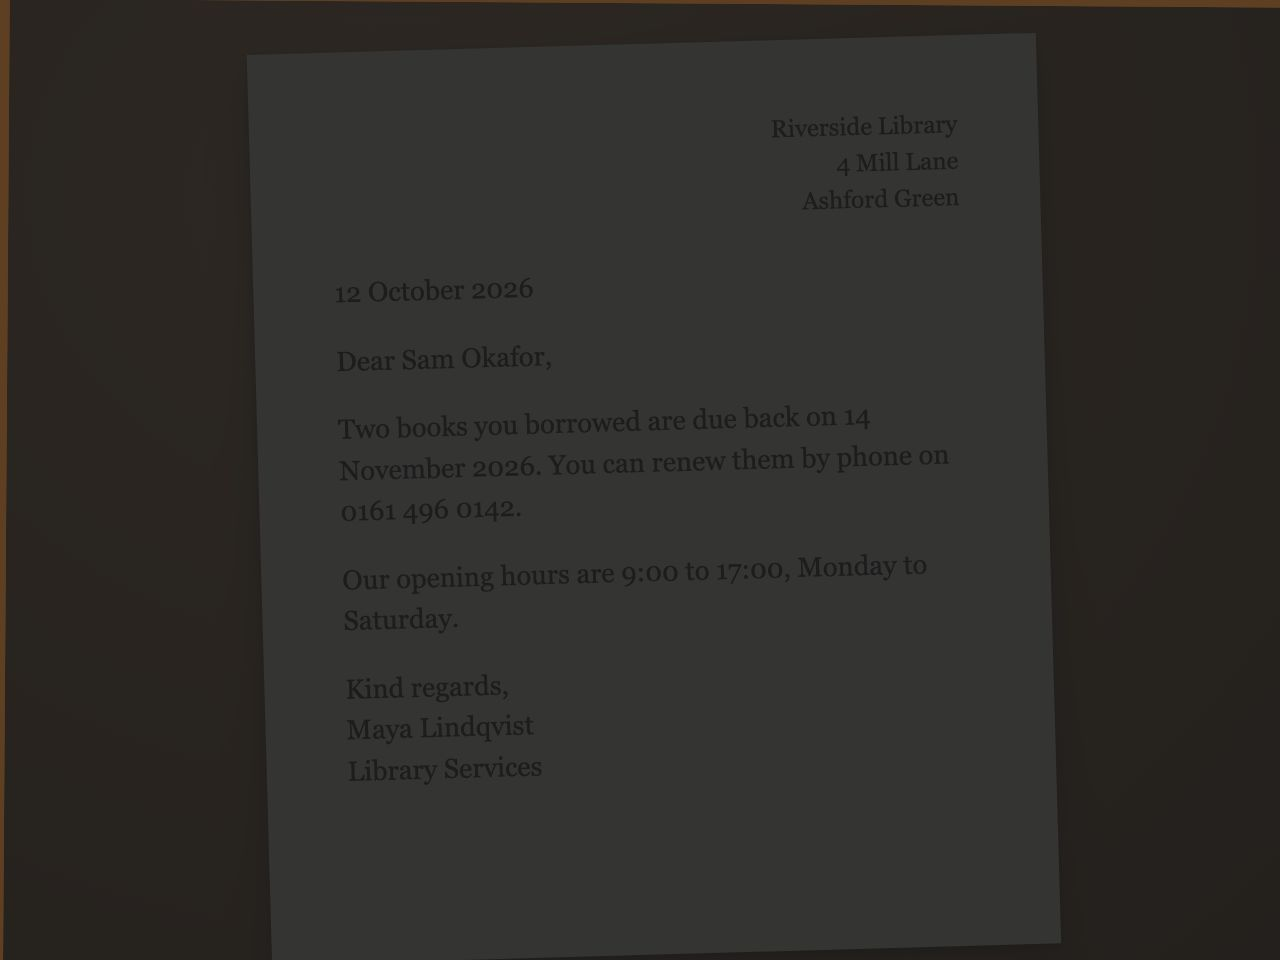
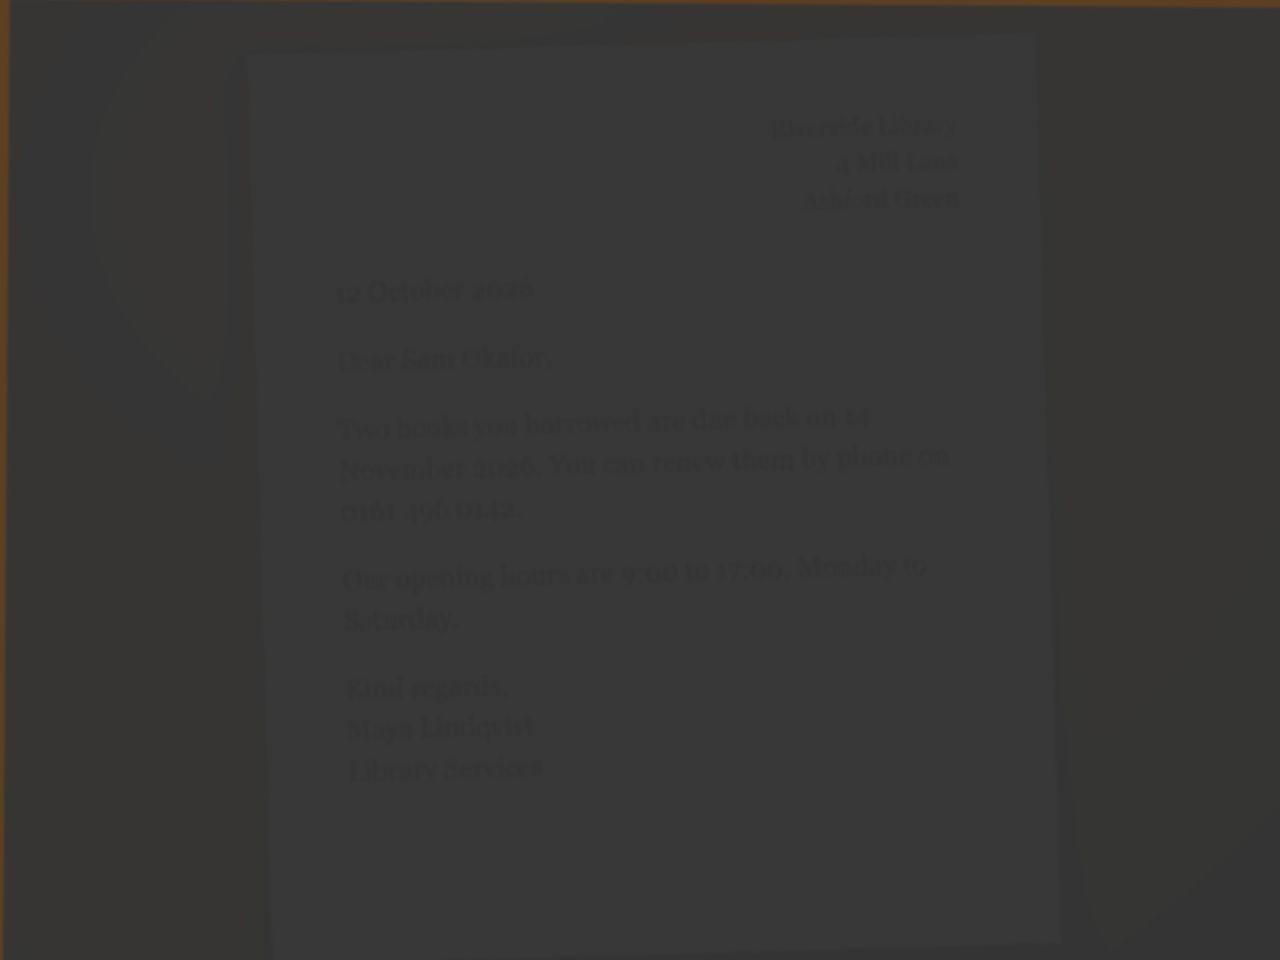
Tune on live dev results: argument grounding, clearer tools, fuller Describe
First runs against Nebius Token Factory (dev split only):
- Super-VL accepts strict json_schema; reasoning_effort none gives 0 hidden
  reasoning tokens
- Lightning invented a location ("on the counter") for "remember this as my
  house keys": tool descriptions now give examples, and code rejects any
  object/location/label not grounded in the user's words (falls back to rules)
- Describe listed only 2 items; the prompt now asks for each distinct object
- Guidance-only reads no longer run number checks or call Ultra
- Evaluation: clock positions are not counted as numbers; the judge is told
  that "(number unclear)" is a deliberate mask; misses and judged sentences
  are printed
- The dark sample is now genuinely unreadable; labels for the dark and
  cut-off letter carry the letter's text

diff --git a/eval/run.ts b/eval/run.ts
@@ -111,6 +111,7 @@ async function evalLane(name: string, lane: { lane: "fast" | "fastlane"; model: 
     }
     r.latencies.push(Date.now() - started);
     if (routeCorrect(d, u)) r.correct++;
+    else if (lane) console.error(`  ${name} miss: "${u.utterance}" -> ${d.skill} ${JSON.stringify(d.args)} (want ${u.skill} ${JSON.stringify(u.args)})`);
   }
   return r;
 }
@@ -155,7 +156,7 @@ interface PhotoResult {
   forbidden: string[];
   hazardSaid: boolean | null;
   numbers: { agreed: number; adjudicated: number; abstained: number } | null;
-  unsupported: { count: number; total: number } | null;
+  unsupported: { count: number; total: number; unsupported: string[] } | null;
 }
 
 const FIXED = new Set<string>([...Object.values(REFUSALS)]);
@@ -166,16 +167,20 @@ function forbiddenIn(speech: string[]): string[] {
 
 const Judged = z.object({ sentences: z.array(z.object({ sentence: z.string(), supported: z.boolean() })) });
 
-async function judge(label: Label, speech: string[]): Promise<{ count: number; total: number }> {
+async function judge(label: Label, speech: string[]): Promise<{ count: number; total: number; unsupported: string[] }> {
   const content = speech.filter((s) => !FIXED.has(s) && !/^(There's more|I can't|I don't see|Press |The picture|Too dark|It's cut off|The text is cut off|There's glare)/.test(s));
-  if (content.length === 0) return { count: 0, total: 0 };
+  if (content.length === 0) return { count: 0, total: 0, unsupported: [] };
   const res = await chatJson(
     ctx.llm,
     {
       lane: "judge",
       model: ctx.cfg.models.judge,
       messages: [
-        { role: "system", content: "You grade an assistant's description of a photo against the ground truth. A sentence is supported if everything it claims is consistent with the ground truth. Hedged sentences ('I think … but I'm not sure') are judged on their claim. Reply with JSON only." },
+        {
+          role: "system",
+          content:
+            "You grade an assistant's description of a photo against the ground truth. A sentence is supported if everything it claims is consistent with the ground truth. Hedged sentences ('I think … but I'm not sure') are judged on their claim. '(number unclear)' marks a number the assistant deliberately withheld; it is not a claim. Clock positions and rough distances are approximate and are not errors unless clearly wrong. Reply with JSON only.",
+        },
         { role: "user", content: JSON.stringify({ ground_truth: label.scene, key_facts: label.key_facts, sentences: content }) },
       ],
       temperature: 0,
@@ -186,7 +191,8 @@ async function judge(label: Label, speech: string[]): Promise<{ count: number; t
     "judged",
     ctx.cfg.jsonMode,
   );
-  return { count: res.data.sentences.filter((s) => !s.supported).length, total: content.length };
+  const unsupported = res.data.sentences.filter((s) => !s.supported).map((s) => s.sentence);
+  return { count: unsupported.length, total: content.length, unsupported };
 }
 
 async function dataUrl(file: string): Promise<string> {
@@ -205,6 +211,8 @@ if (live && !flag("no-vision")) {
       const spoken = res.speech.join(" ");
       const transcript = (res.read?.items ?? []).filter((i) => i.confidence >= 0.5).map((i) => i.content).join(" ");
       const truthNums = new Set(numericTokens(`${p.truth_text ?? ""} ${p.numbers.join(" ")} ${p.scene}`));
+      // Clock positions ("at 4 o'clock") are directions, not numbers read from the scene.
+      const spokenNumbers = spoken.replace(/\b(?:at\s+)?\d{1,2}\s+o'clock\b/gi, "");
       const answered = res.status === "answered";
       results.push({
         id: p.id,
@@ -217,13 +225,16 @@ if (live && !flag("no-vision")) {
         cer: p.truth_text && p.skill === "read" && answered ? cer(transcript, p.truth_text) : null,
         invented: p.truth_text && p.skill === "read" && answered ? inventedWords(transcript, p.truth_text) : null,
         facts: { hit: keyFactHits(spoken, p.key_facts), total: p.key_facts.length },
-        wrongNumbers: numericTokens(spoken).filter((t) => !truthNums.has(t)),
+        wrongNumbers: numericTokens(spokenNumbers).filter((t) => !truthNums.has(t)),
         forbidden: forbiddenIn(res.speech),
         hazardSaid: p.hazard ? /\bcareful\b/i.test(spoken) : null,
         numbers: res.numbers ?? null,
         unsupported: (p.skill === "describe" || p.skill === "what_is") && answered && !flag("no-judge") ? await judge(p, res.speech) : null,
       });
+      const last = results[results.length - 1]!;
       console.error(`  ${p.id}: ${res.status} ${res.metrics.total_ms} ms · ${res.speech.join(" | ")}`);
+      if (last.unsupported?.unsupported.length) console.error(`    judged unsupported: ${last.unsupported.unsupported.join(" | ")}`);
+      if (last.wrongNumbers.length) console.error(`    numbers not on the page: ${last.wrongNumbers.join(", ")}`);
     } catch (err) {
       console.error(`  ${p.id}: FAILED ${err instanceof Error ? err.message : String(err)}`);
       results.push({ id: p.id, skill: p.skill, expect: p.expect, status: "error", speech: [], ms: 0, cost: 0, cer: null, invented: null, facts: { hit: 0, total: p.key_facts.length }, wrongNumbers: [], forbidden: [], hazardSaid: null, numbers: null, unsupported: null });

diff --git a/server/route.ts b/server/route.ts
@@ -1,4 +1,4 @@
-import type { RouteRequest, RouteResponse, RouteSkill } from "../shared/api.js";
+import type { RouteArgs, RouteRequest, RouteResponse, RouteSkill } from "../shared/api.js";
 import { type RouteDecision, refusalFor, routeByRules, validateRoute } from "../shared/router.js";
 import { type Ctx, Meter, withTextLane } from "./context.js";
 import type { ChatRequest, Tool } from "./llm.js";
@@ -23,16 +23,16 @@ function tool(name: string, description: string, props: Record<string, string> =
 }
 
 export const ROUTE_TOOLS: Tool[] = [
-  tool("describe_scene", "Say what is in front of the camera: objects, hazards, layout."),
-  tool("read_text", "Read printed text aloud word for word: letters, labels, signs, receipts, screens."),
-  tool("identify_object", "Say what the single object held up to the camera is."),
-  tool("find_object", "Answer where one of the user's remembered objects is.", { object: "The object, in the user's words, e.g. 'house keys'." }),
-  tool("remember_placement", "The user is putting an object somewhere and wants it remembered.", {
+  tool("describe_scene", "Say what is in front of the camera: objects, hazards, layout. E.g. \"what's in front of me\", \"anything in my way?\"."),
+  tool("read_text", "Read printed text aloud word for word: letters, labels, signs, receipts, prices, totals, screens. E.g. \"read this\", \"what's the price\"."),
+  tool("identify_object", "Say what the single object held up to the camera is. E.g. \"what is this\", \"which tin is this\"."),
+  tool("find_object", "Answer where one of the user's remembered objects is. E.g. \"where are my keys\".", { object: "The object, in the user's words, e.g. 'house keys'." }),
+  tool("remember_placement", "The user says where they are putting an object right now. Only when the user names the place. E.g. \"I'm putting my keys on the hall shelf\".", {
     object: "The object, e.g. 'keys'.",
-    location: "Where, starting with a preposition, e.g. 'on the hall shelf'.",
+    location: "Where, copied from the user's words, starting with a preposition, e.g. 'on the hall shelf'.",
   }),
-  tool("picked_up", "The user has taken an object from where it was.", { object: "The object, e.g. 'wallet'." }),
-  tool("enrol_object", "Learn a new personal object from the camera so it can be found later.", { label: "What to call it, e.g. 'car keys'." }),
+  tool("picked_up", "The user has taken an object with them. E.g. \"I've got my keys\", \"I took my wallet\".", { object: "The object, e.g. 'wallet'." }),
+  tool("enrol_object", "The user is showing a new object to the camera so Aloud learns what it looks like. E.g. \"remember this as my house keys\", \"save this as my wallet\", \"this is my blue mug\".", { label: "What to call it, e.g. 'car keys'." }),
   tool("appliance_help", "Help the user operate an appliance step by step using its manual.", { task: "What the user wants to do, e.g. 'defrost bread'." }),
   tool("plan_task", "Break an everyday task in front of the user into small spoken steps.", { goal: "The task, e.g. 'tidy my room'." }),
   tool("repeat_last", "Repeat the last answer."),
@@ -83,6 +83,32 @@ export function decisionFromToolCall(name: string, rawArgs: string, known: strin
 }
 
 /** One routing call on a given model lane. Throws if the model gives no usable tool call. */
+/** Content words of an argument that must come from what the user said. */
+function contentWords(s: string): string[] {
+  return s
+    .toLowerCase()
+    .replace(/['’]s\b/g, "")
+    .split(/[^\p{L}\p{N}]+/u)
+    .filter((w) => w.length > 2 && !["the", "and", "you", "your", "my", "our", "this", "that", "with", "from"].includes(w));
+}
+
+/**
+ * Arguments must be grounded in the user's words: a model may not invent a place
+ * ("on the counter") or an object the user never mentioned.
+ */
+export function argumentsGrounded(args: RouteArgs, utterance: string): boolean {
+  const said = new Set(contentWords(utterance).map((w) => w.replace(/s$/, "")));
+  for (const key of ["object", "location", "label"] as const) {
+    const value = args[key];
+    if (!value) continue;
+    const words = contentWords(value);
+    if (words.length === 0) continue;
+    const found = words.filter((w) => said.has(w.replace(/s$/, ""))).length;
+    if (found / words.length < 0.5) return false;
+  }
+  return true;
+}
+
 export async function routeWithModel(ctx: Ctx, req: RouteRequest, lane: Pick<ChatRequest, "lane" | "model">, meter: Meter): Promise<RouteDecision> {
   const res = await ctx.llm.chat({
     ...lane,
@@ -100,6 +126,7 @@ export async function routeWithModel(ctx: Ctx, req: RouteRequest, lane: Pick<Cha
   const call = res.toolCalls[0];
   const decision = call ? decisionFromToolCall(call.name, call.arguments, req.known_objects ?? []) : null;
   if (!decision) throw new Error("no usable tool call");
+  if (!argumentsGrounded(decision.args, req.utterance)) throw new Error("tool arguments not grounded in the utterance");
   return decision;
 }
 

diff --git a/server/route.test.ts b/server/route.test.ts
@@ -3,7 +3,7 @@ import { REFUSALS } from "../shared/safety.js";
 import { createContext } from "./context.js";
 import { FakeLLM, userText } from "./fake-llm.js";
 import { ModelError } from "./llm.js";
-import { ROUTE_TOOLS, route } from "./route.js";
+import { ROUTE_TOOLS, argumentsGrounded, route } from "./route.js";
 import { testConfig } from "./test-fixtures.js";
 
 describe("route", () => {
@@ -30,6 +30,18 @@ describe("route", () => {
     const llm = new FakeLLM(() => ({ toolCalls: [{ name: "remember_placement", arguments: '{"object":"keys","location":""}' }] }));
     const res = await route(createContext(testConfig(), llm), { utterance: "remember my keys" });
     expect(res.outcome).toBe("fixable");
+  });
+
+  it("rejects invented arguments and falls back to rules", async () => {
+    const llm = new FakeLLM(() => ({ toolCalls: [{ name: "remember_placement", arguments: '{"object":"house keys","location":"on the counter"}' }] }));
+    const res = await route(createContext(testConfig(), llm), { utterance: "remember this as my house keys" });
+    expect(res).toMatchObject({ skill: "enrol_object", args: { label: "house keys" }, lane: "rules" });
+  });
+
+  it("checks that arguments come from the user's words", () => {
+    expect(argumentsGrounded({ object: "keys", location: "on the hall shelf" }, "I'm putting my keys on the hall shelf")).toBe(true);
+    expect(argumentsGrounded({ object: "house keys", location: "on the counter" }, "remember this as my house keys")).toBe(false);
+    expect(argumentsGrounded({ object: "keys" }, "where did I put my key")).toBe(true);
   });
 
   it("falls back to rules when the model fails or returns no tool", async () => {

diff --git a/server/prompts.ts b/server/prompts.ts
@@ -24,9 +24,10 @@ Reply with JSON only.`;
 
 export const SKILL_PROMPTS = {
   describe: `Describe what is in front of the camera for someone who cannot see it.
-List the 2 to 5 most useful items. Put hazards first as kind "hazard": sharp or hot things, steps, edges, obstacles at head or foot height, open doors, spills.
-Each content is a short noun phrase starting with "a", "an" or "the", with one useful detail, e.g. "a knife on the board, blade toward you".
-Add one item of kind "place" if the setting is clear, e.g. "a kitchen". Use kind "text" for short signs, quoting them exactly.`,
+List every distinct thing that matters to someone moving or working here, up to 6 items, each object as its own item (do not merge a mug and a kettle into "kitchen items").
+Put hazards first as kind "hazard": sharp or hot things, steps, edges, obstacles at head or foot height, open doors, spills.
+Then the main objects on tables, counters, shelves and the floor. Each content is a short noun phrase starting with "a", "an" or "the", with one useful detail, e.g. "a knife on the board, blade toward you".
+End with one item of kind "place" if the setting is clear, e.g. "a kitchen". Use kind "text" for short signs, quoting them exactly.`,
 
   read: `Read all legible text exactly as written, in reading order.
 One item per line, label field or sign. Use kind "text" for words and kind "number" for a standalone price, amount, phone number, date, time or banknote value.

diff --git a/server/vision.test.ts b/server/vision.test.ts
@@ -106,6 +106,14 @@ describe("read with two frames", () => {
     expect(res.speech).toContain(NUMBER_ABSTAIN);
   });
 
+  it("does not check numbers, or call Ultra, when the answer is only guidance", async () => {
+    const dark = { image_quality: { blur: false, too_dark: true, glare: false, cut_off: "none" as const } };
+    const { llm, ctx } = setup((r) => visionJson([{ kind: "number", content: firstImage(r) === FRAME_A ? "$12.50" : "$17.50", number_kind: "price", confidence: 0.6 }], dark));
+    const res = await see(ctx, req({ skill: "read", frames: [FRAME_A, FRAME_B] }));
+    expect(res.status).toBe("guidance");
+    expect(llm.requests.some((r) => r.lane === "judge")).toBe(false);
+  });
+
   it("uses the better frame when the first one is unusable", async () => {
     const { ctx } = setup((r) =>
       firstImage(r) === FRAME_A

diff --git a/server/vision.ts b/server/vision.ts
@@ -129,7 +129,8 @@ async function seeAndSay(ctx: Ctx, req: SeeRequest, skill: VisionSkill, meter: M
 
   let numbers: Map<number, NumberVerdict> | undefined;
   let counts: SeeResponse["numbers"];
-  if (skill === "read") {
+  // Number checks (and any Ultra call) only matter when the read will be spoken, not for guidance.
+  if (skill === "read" && qualityGate(primary, skill).pass) {
     const verdicts = await verifyNumbers(ctx, meter, primary, second);
     numbers = verdicts;
     counts = { agreed: 0, adjudicated: 0, abstained: 0 };
